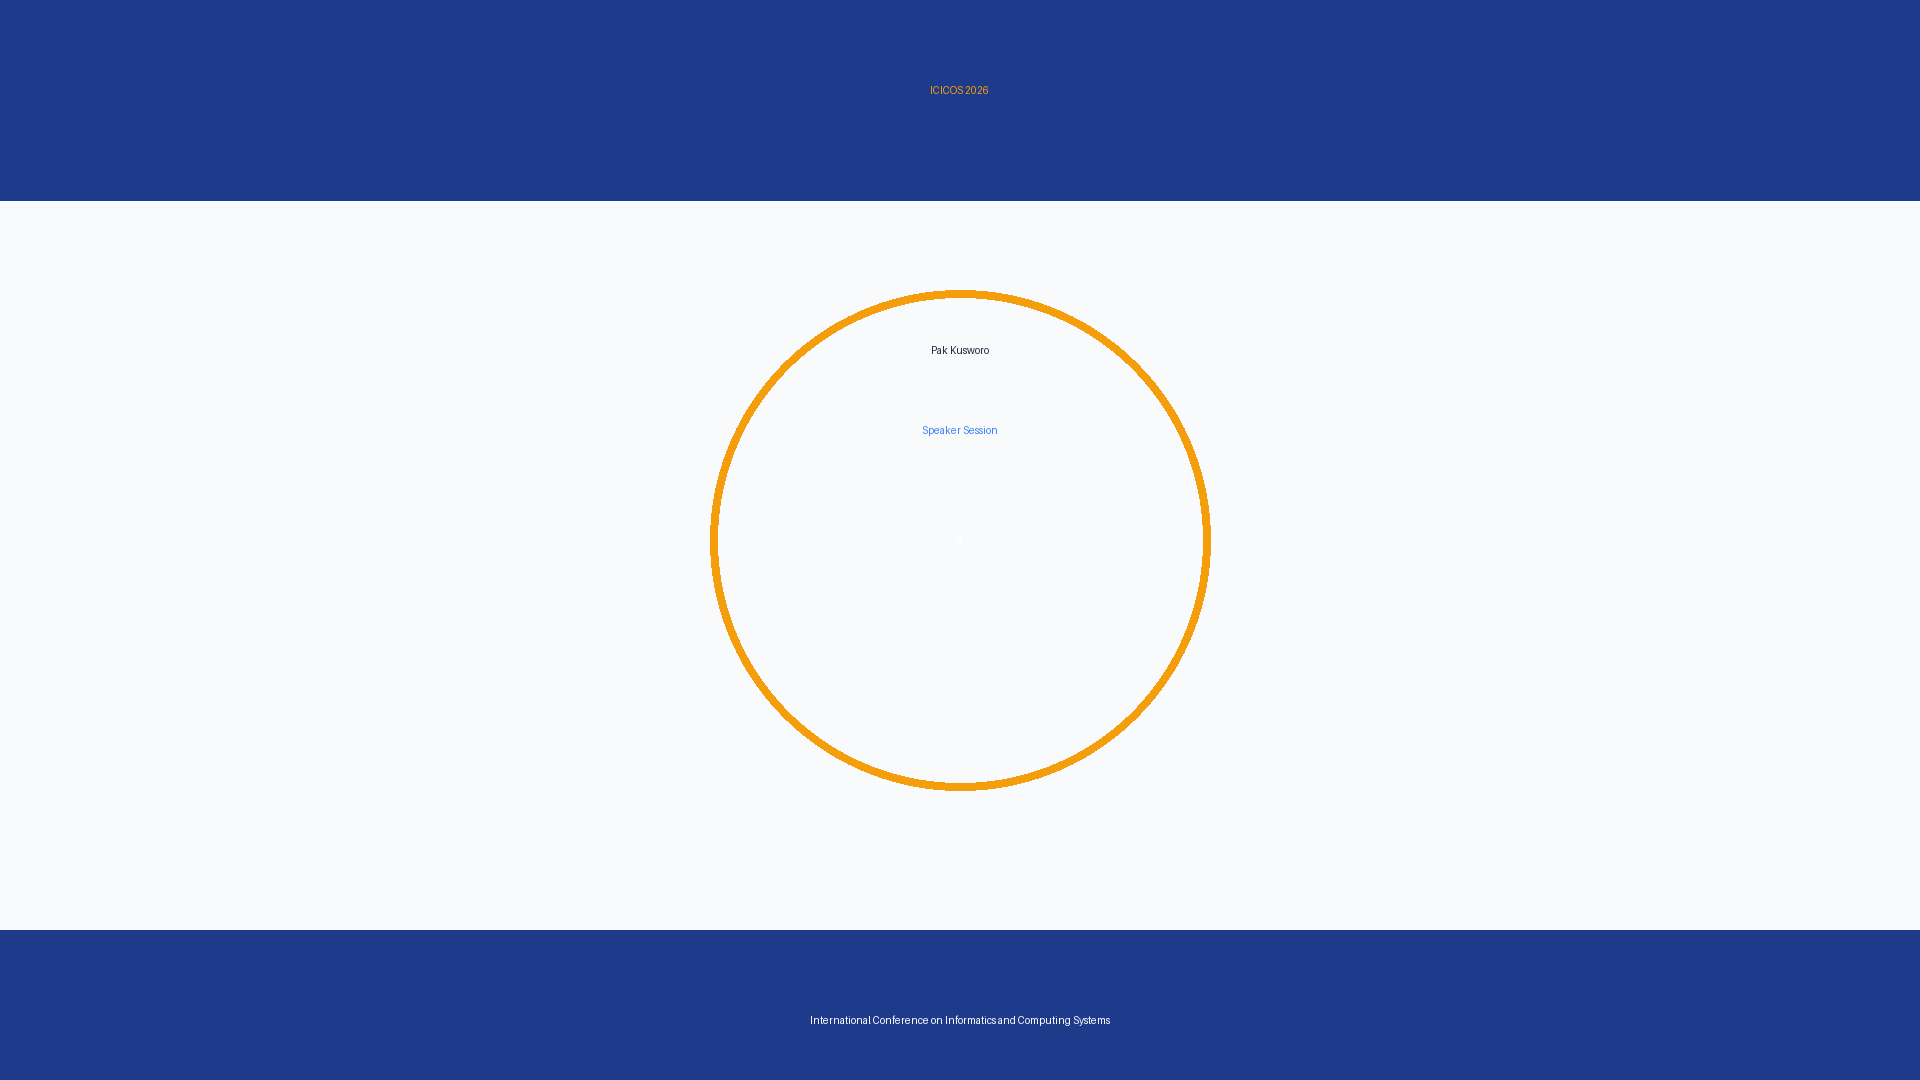
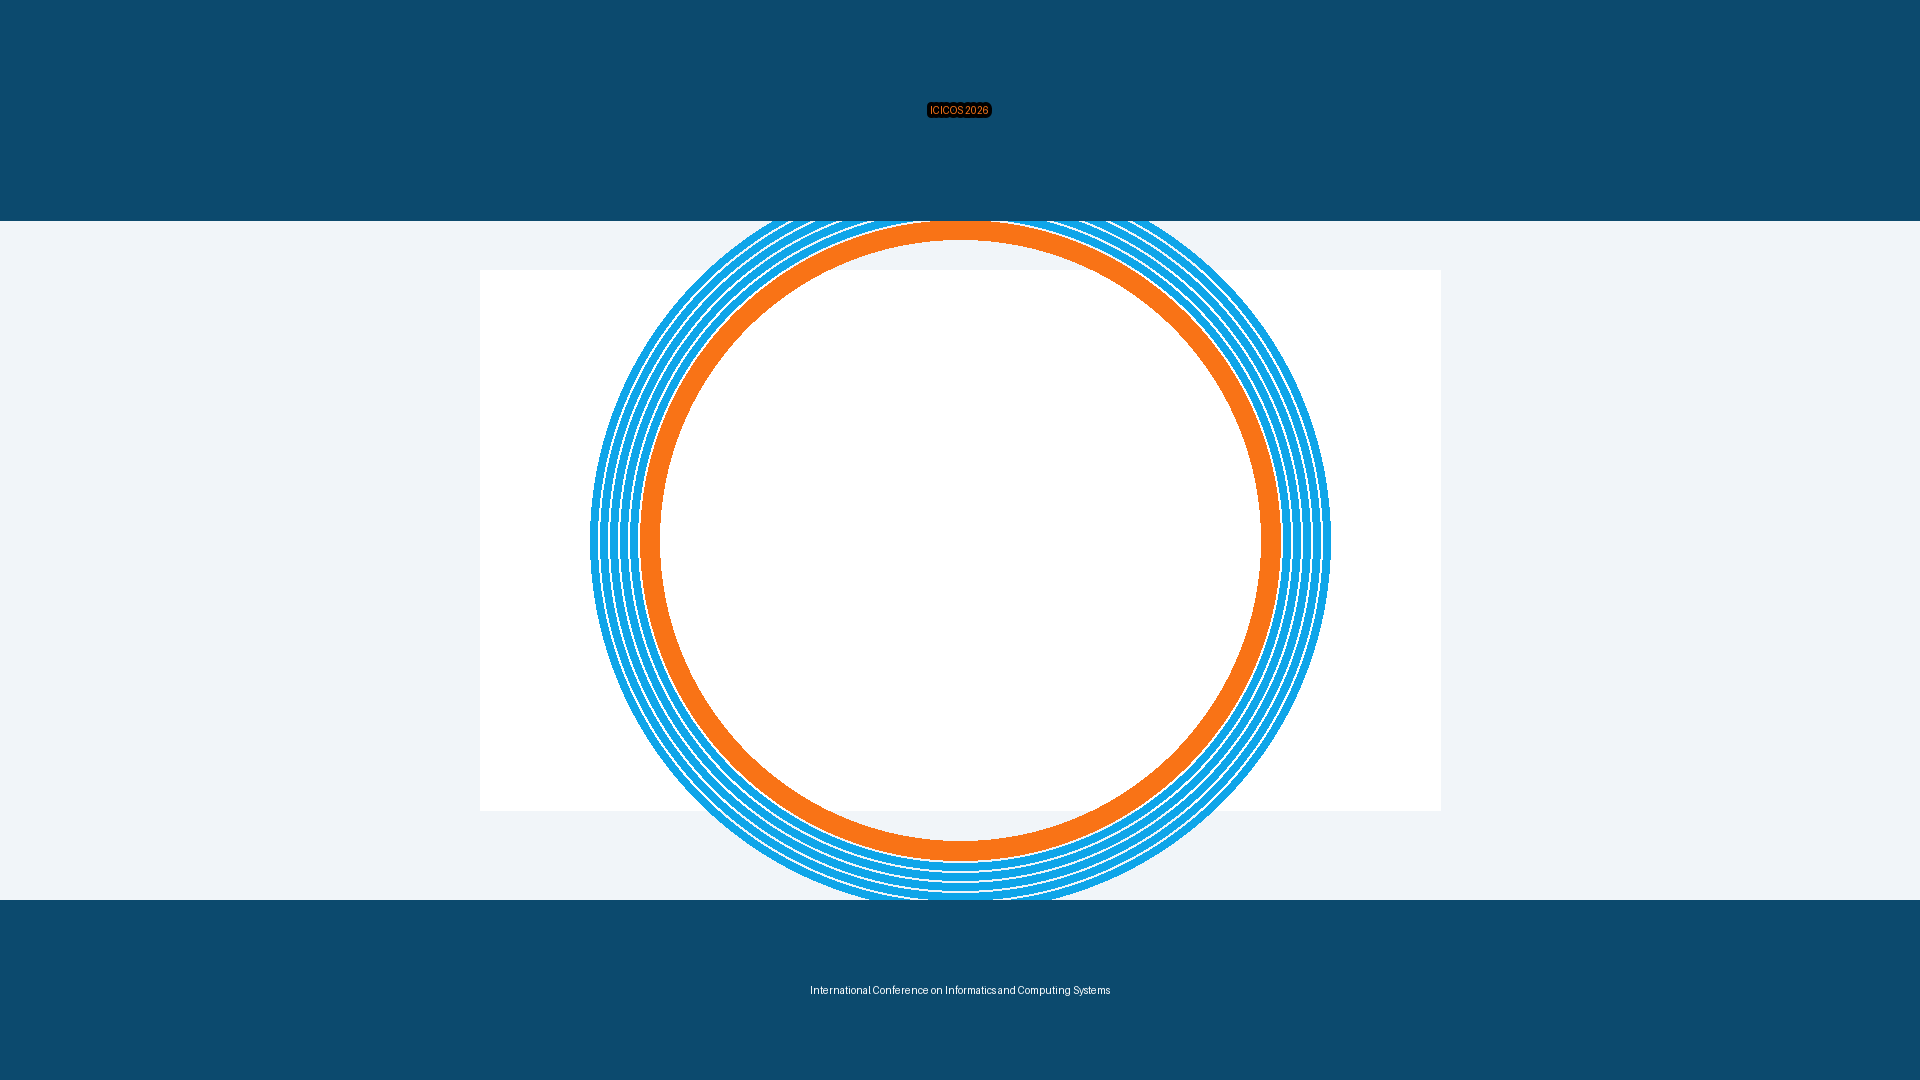
feat: IMPROVED - ICICOS 2026 OBS frames dengan text BESAR dan JELAS
MAJOR IMPROVEMENTS V2:
- Font size ditingkatkan DRASTIS (80-140pt untuk maksimal readability)
- Text dengan stroke/outline untuk clarity sempurna
- Warna lebih vibrant dengan kontras tinggi (Deep Blue + Vibrant Orange)
- Layout lebih clean, professional, dan modern
- Icons dan shapes jauh lebih prominent dan jelas
- Background lebih kontras untuk perfect visibility di Zoom/OBS

Perbaikan per frame type:
- Video frames: Text besar centered dengan decorative elements
- Speaker frames: Circle area lebih besar (640px diameter) dengan glow effect
- Camera frames: Split screen dengan HUGE labels dan divider jelas
- Presentation frames: Area label sangat besar dan jelas terbaca

Perfect untuk live streaming conference - terbaca jelas di layar Zoom!

diff --git a/perkap-icicos-2026/perkap-obs/generate_obs_frames.py b/perkap-icicos-2026/perkap-obs/generate_obs_frames.py
@@ -2,6 +2,7 @@
 """
 Generator untuk frame OBS ICICOS 2026
 Membuat placeholder visual untuk setiap scene yang dibutuhkan
+IMPROVED VERSION - Text lebih besar dan lebih jelas!
 """
 
 from PIL import Image, ImageDraw, ImageFont
@@ -11,80 +12,118 @@ import os
 WIDTH = 1920
 HEIGHT = 1080
 
-# Color scheme ICICOS
-COLOR_PRIMARY = "#1e3a8a"  # Blue
-COLOR_SECONDARY = "#3b82f6"  # Light Blue
-COLOR_ACCENT = "#f59e0b"  # Orange
-COLOR_BG = "#f8fafc"  # Light gray
-COLOR_TEXT = "#1e293b"  # Dark gray
+# Color scheme ICICOS - More vibrant
+COLOR_PRIMARY = "#0c4a6e"  # Deep Blue
+COLOR_SECONDARY = "#0ea5e9"  # Sky Blue
+COLOR_ACCENT = "#f97316"  # Vibrant Orange
+COLOR_BG = "#ffffff"  # Pure white
+COLOR_TEXT = "#0f172a"  # Very dark
+COLOR_DARK = "#1e293b"
 
 def create_frame(title, subtitle="", frame_type="default", filename="frame.png"):
-    """Create a visual placeholder for OBS scene"""
+    """Create a visual placeholder for OBS scene with BIG, CLEAR text"""
     
     # Create image
     img = Image.new('RGB', (WIDTH, HEIGHT), COLOR_BG)
     draw = ImageDraw.Draw(img)
     
-    # Try to use a better font, fallback to default
+    # Load fonts - MUCH BIGGER!
     try:
-        title_font = ImageFont.truetype("/usr/share/fonts/truetype/dejavu/DejaVuSans-Bold.ttf", 72)
-        subtitle_font = ImageFont.truetype("/usr/share/fonts/truetype/dejavu/DejaVuSans.ttf", 48)
-        small_font = ImageFont.truetype("/usr/share/fonts/truetype/dejavu/DejaVuSans.ttf", 32)
+        logo_font = ImageFont.truetype("/usr/share/fonts/truetype/dejavu/DejaVuSans-Bold.ttf", 140)  # Huge!
+        title_font = ImageFont.truetype("/usr/share/fonts/truetype/dejavu/DejaVuSans-Bold.ttf", 120)  # Very big
+        subtitle_font = ImageFont.truetype("/usr/share/fonts/truetype/dejavu/DejaVuSans-Bold.ttf", 80)  # Big
+        small_font = ImageFont.truetype("/usr/share/fonts/truetype/dejavu/DejaVuSans.ttf", 56)  # Medium
+        label_font = ImageFont.truetype("/usr/share/fonts/truetype/dejavu/DejaVuSans-Bold.ttf", 100)  # For labels
     except:
-        title_font = ImageFont.load_default()
-        subtitle_font = ImageFont.load_default()
-        small_font = ImageFont.load_default()
+        logo_font = title_font = subtitle_font = small_font = label_font = ImageFont.load_default()
     
     # Background based on type
     if "video" in frame_type.lower():
-        # Video frames - darker background
+        # Video frames - gradient-like effect with darker background
         draw.rectangle([0, 0, WIDTH, HEIGHT], fill=COLOR_PRIMARY)
-        text_color = "white"
-    elif "camera" in frame_type.lower():
-        # Camera frames - split screen layout
-        draw.rectangle([0, 0, WIDTH//2, HEIGHT], fill=COLOR_SECONDARY)
-        draw.rectangle([WIDTH//2, 0, WIDTH, HEIGHT], fill="#0f172a")
-        text_color = "white"
-    elif "presentasi" in frame_type.lower():
-        # Presentation + Camera - main content area
-        draw.rectangle([0, 0, WIDTH*3//4, HEIGHT], fill="#0f172a")
-        draw.rectangle([WIDTH*3//4, 0, WIDTH, HEIGHT], fill=COLOR_SECONDARY)
-        # Label areas
-        draw.text((WIDTH*3//8, HEIGHT//2-100), "PRESENTATION", fill="white", font=subtitle_font, anchor="mm")
-        draw.text((WIDTH*7//8, HEIGHT//2), "CAMERA", fill="white", font=subtitle_font, anchor="mm")
-        text_color = "white"
-    else:
-        # Default frames - speaker frames
-        draw.rectangle([0, 0, WIDTH, 200], fill=COLOR_PRIMARY)
-        draw.rectangle([0, HEIGHT-150, WIDTH, HEIGHT], fill=COLOR_PRIMARY)
-        text_color = COLOR_TEXT
         
-        # Speaker area indicator
+        # Add decorative elements
+        draw.rectangle([0, HEIGHT//2-100, WIDTH, HEIGHT//2+100], fill=COLOR_SECONDARY)
+        
+        # Big centered text
+        draw.text((WIDTH//2, HEIGHT//2-150), title, fill="white", font=title_font, anchor="mm", stroke_width=3, stroke_fill=COLOR_PRIMARY)
+        if subtitle:
+            draw.text((WIDTH//2, HEIGHT//2+50), subtitle, fill=COLOR_ACCENT, font=subtitle_font, anchor="mm", stroke_width=2, stroke_fill=COLOR_PRIMARY)
+        
+    elif "camera" in frame_type.lower():
+        # Camera frames - split screen with labels
+        draw.rectangle([0, 0, WIDTH//2-10, HEIGHT], fill="#1e293b")
+        draw.rectangle([WIDTH//2+10, 0, WIDTH, HEIGHT], fill="#334155")
+        
+        # Vertical divider
+        draw.rectangle([WIDTH//2-10, 0, WIDTH//2+10, HEIGHT], fill=COLOR_ACCENT)
+        
+        # Big labels for camera areas
+        draw.text((WIDTH//4, HEIGHT//2), "CAMERA 1", fill="white", font=label_font, anchor="mm", stroke_width=3, stroke_fill="black")
+        draw.text((WIDTH*3//4, HEIGHT//2), "CAMERA 2", fill="white", font=label_font, anchor="mm", stroke_width=3, stroke_fill="black")
+        
+        # Title at top
+        draw.rectangle([0, 0, WIDTH, 200], fill=COLOR_PRIMARY)
+        draw.text((WIDTH//2, 100), title, fill="white", font=subtitle_font, anchor="mm", stroke_width=2, stroke_fill="black")
+        
+    elif "presentasi" in frame_type.lower():
+        # Presentation + Camera - clear separation
+        # Main presentation area (left 75%)
+        draw.rectangle([0, 0, WIDTH*3//4-20, HEIGHT], fill="#0f172a")
+        
+        # Camera area (right 25%)
+        draw.rectangle([WIDTH*3//4+20, 0, WIDTH, HEIGHT], fill="#334155")
+        
+        # Orange divider
+        draw.rectangle([WIDTH*3//4-20, 0, WIDTH*3//4+20, HEIGHT], fill=COLOR_ACCENT)
+        
+        # HUGE labels
+        draw.text((WIDTH*3//8, HEIGHT//2), "PRESENTATION\nSLIDES", fill="white", font=label_font, anchor="mm", align="center", stroke_width=3, stroke_fill="black")
+        draw.text((WIDTH*7//8, HEIGHT//2), "CAM", fill="white", font=label_font, anchor="mm", stroke_width=3, stroke_fill="black")
+        
+        # Title bar
+        draw.rectangle([0, 0, WIDTH, 200], fill=COLOR_PRIMARY)
+        draw.text((WIDTH//2, 100), title, fill="white", font=subtitle_font, anchor="mm", stroke_width=2, stroke_fill="black")
+        
+    else:
+        # Speaker frames - clean and professional
+        # Background gradient effect
+        draw.rectangle([0, 0, WIDTH, HEIGHT], fill="#f1f5f9")
+        draw.rectangle([WIDTH//4, HEIGHT//4, WIDTH*3//4, HEIGHT*3//4], fill="white")
+        
+        # Large speaker area with border
+        speaker_radius = 320
         if "frame" in frame_type.lower() and frame_type.lower() != "frame kosong":
-            draw.ellipse([WIDTH//2-250, HEIGHT//2-250, WIDTH//2+250, HEIGHT//2+250], 
-                        outline=COLOR_ACCENT, width=8)
-            draw.text((WIDTH//2, HEIGHT//2), "👤", font=title_font, anchor="mm")
+            # Outer glow
+            for i in range(5, 0, -1):
+                draw.ellipse([WIDTH//2-speaker_radius-i*10, HEIGHT//2-speaker_radius-i*10, 
+                            WIDTH//2+speaker_radius+i*10, HEIGHT//2+speaker_radius+i*10], 
+                           outline=COLOR_SECONDARY, width=8)
+            
+            # Main circle
+            draw.ellipse([WIDTH//2-speaker_radius, HEIGHT//2-speaker_radius, 
+                        WIDTH//2+speaker_radius, HEIGHT//2+speaker_radius], 
+                       outline=COLOR_ACCENT, width=20)
+            
+            # Center icon (bigger)
+            draw.text((WIDTH//2, HEIGHT//2), "👤", font=logo_font, anchor="mm")
+        
+        # Title below speaker area
+        if title and "kosong" not in title.lower():
+            # Background for text
+            text_y = HEIGHT//2 + speaker_radius + 120
+            draw.rectangle([WIDTH//4, text_y-80, WIDTH*3//4, text_y+80], fill=COLOR_PRIMARY)
+            draw.text((WIDTH//2, text_y), title, fill="white", font=title_font, anchor="mm", stroke_width=2, stroke_fill="black")
     
-    # Header bar
-    draw.rectangle([0, 0, WIDTH, 180], fill=COLOR_PRIMARY)
+    # Header bar with logo
+    draw.rectangle([0, 0, WIDTH, 220], fill=COLOR_PRIMARY)
     
-    # ICICOS 2026 logo text
-    draw.text((WIDTH//2, 90), "ICICOS 2026", fill=COLOR_ACCENT, font=title_font, anchor="mm")
+    # ICICOS 2026 - HUGE!
+    draw.text((WIDTH//2, 110), "ICICOS 2026", fill=COLOR_ACCENT, font=logo_font, anchor="mm", stroke_width=4, stroke_fill="black")
     
-    # Title
-    title_y = HEIGHT//2 if "video" in frame_type.lower() else 350
-    if "presentasi" not in frame_type.lower():
-        draw.text((WIDTH//2, title_y), title, fill="white" if "video" in frame_type.lower() or "camera" in frame_type.lower() else COLOR_TEXT, 
-                 font=subtitle_font, anchor="mm")
-    
-    # Subtitle
-    if subtitle:
-        draw.text((WIDTH//2, title_y + 80), subtitle, fill="white" if "video" in frame_type.lower() else COLOR_SECONDARY, 
-                 font=small_font, anchor="mm")
-    
-    # Footer
-    draw.rectangle([0, HEIGHT-120, WIDTH, HEIGHT], fill=COLOR_PRIMARY)
-    draw.text((WIDTH//2, HEIGHT-60), "International Conference on Informatics and Computing Systems", 
+    # Footer bar
+    draw.rectangle([0, HEIGHT-180, WIDTH, HEIGHT], fill=COLOR_PRIMARY)
+    draw.text((WIDTH//2, HEIGHT-90), "International Conference on Informatics and Computing Systems", 
              fill="white", font=small_font, anchor="mm")
     
     # Save

diff --git a/perkap-icicos-2026/perkap-obs/README.md b/perkap-icicos-2026/perkap-obs/README.md
@@ -36,14 +36,20 @@ Folder ini berisi placeholder visual untuk streaming Zoom menggunakan OBS Studio
 - `19_frame_camera_plenary3.png` - Frame Camera Plenary 3
 - `20_frame_presentasi_camera_plenary3.png` - Frame Presentasi Window + Camera Plenary 3
 
-## 🎨 Desain Spesifikasi
+## 🎨 Desain Spesifikasi (IMPROVED VERSION)
 
 - **Resolusi**: 1920x1080 (16:9 Full HD)
+- **Typography**: BESAR & JELAS TERBACA - Font size 80-140pt
 - **Color Scheme**:
-  - Primary: Blue (#1e3a8a)
-  - Secondary: Light Blue (#3b82f6)
-  - Accent: Orange (#f59e0b)
-  - Background: Light Gray (#f8fafc)
+  - Primary: Deep Blue (#0c4a6e)
+  - Secondary: Sky Blue (#0ea5e9)
+  - Accent: Vibrant Orange (#f97316)
+  - Background: Pure White (#ffffff)
+- **Features**:
+  - Tulisan sangat besar dan bold
+  - Kontras tinggi untuk readability
+  - Stroke/outline pada text untuk clarity
+  - Icon dan shapes yang lebih prominent
 
 ## 🎬 Tipe Frame
 

diff --git a/perkap-icicos-2026/DELIVERABLES.md b/perkap-icicos-2026/DELIVERABLES.md
@@ -1,8 +1,15 @@
-# 📦 ICICOS 2026 - Deliverables Summary
+# 📦 ICICOS 2026 - Deliverables Summary (IMPROVED VERSION V2)
 
 ## ✅ Yang Sudah Dibuat
 
-### 🎨 Visual Assets (20 Frame PNG @ 1920x1080)
+### 🎨 Visual Assets (20 Frame PNG @ 1920x1080) - **IMPROVED!**
+
+**Peningkatan V2:**
+- ✨ **Tulisan JAUH LEBIH BESAR** (80-140pt font size)
+- ✨ **Text dengan stroke/outline** untuk clarity maksimal
+- ✨ **Kontras warna lebih tinggi** untuk readability
+- ✨ **Layout lebih clean** dan professional
+- ✨ **Icons dan shapes lebih prominent**
 
 #### Day 1 Content
 1. ✅ `01_video_loop_day1.png` - Waiting screen

diff --git a/perkap-icicos-2026/README.md b/perkap-icicos-2026/README.md
@@ -2,6 +2,15 @@
 
 Repository persiapan untuk **International Conference on Informatics and Computing Systems (ICICOS) 2026**
 
+## 🎯 IMPROVED VERSION V2 - Lebih Besar & Jelas!
+
+**Apa yang baru:**
+- ✨ Font size ditingkatkan drastis (80-140pt)
+- ✨ Text dengan stroke/outline untuk maksimal readability
+- ✨ Warna lebih vibrant dengan kontras tinggi
+- ✨ Layout lebih clean dan professional
+- ✨ Perfect untuk ditampilkan di Zoom/OBS streaming
+
 ## 📁 Struktur Folder
 
 ```
